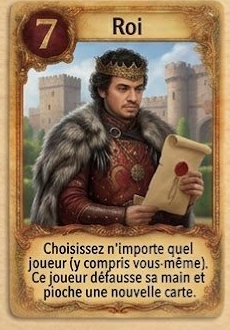
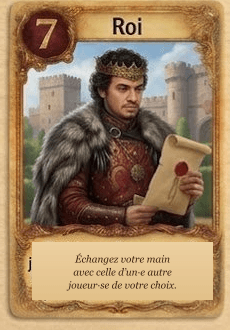
fix: king card text + dramatize reveals + turn vibration (#1)
- public/cards/king.png : la cellule du Roi du composite avait le texte du Prince ; on recouvre la bande parchemin avec le bon (« Échangez votre main… »). Script idempotent dans scripts/fix-king-card-text.mjs, backup en king.before-fix.png.
- RevealBubble : verdicts (Touché/Raté, éliminé·e, Princesse tombe) décalés à 1.0–1.6 s pour qu'on voie d'abord l'action et les cartes. Auto-dismiss allongé en conséquence (3.0–3.3 s).
- GameTable : suppression des toasts 'elim' et 'win' qui anticipaient la conclusion en parallèle des reveals. 'protect' et 'bonus' conservés.
- RoundEndModal : staggered reveal — mains affichées une par une, puis badge ✓ manche, puis raison, puis bouton.
- Vibration : navigator.vibrate(\[55, 55, 55\]) au début de chaque tour humain, déduplication (round, turn). Déplacée de solo/page.tsx vers GameTable pour couvrir aussi le multi.

Changed region(s): [[0.1217, 0.7273, 0.9435, 0.9091]]

diff --git a/components/game/modals/RoundEndModal.tsx b/components/game/modals/RoundEndModal.tsx
@@ -1,5 +1,6 @@
 'use client';
 
+import { motion } from 'motion/react';
 import type { GameState, RoundEndSummary } from '@/lib/game';
 import { Modal } from '@/components/ui/Modal';
 import { Button } from '@/components/ui/Button';
@@ -12,6 +13,21 @@ export interface RoundEndModalProps {
   onNextRound: () => void;
 }
 
+/**
+ * Reveal scénarisé : on ne saute pas à la conclusion. Ordre d'apparition :
+ *   1. Label "Mains révélées"           (instantané)
+ *   2. Mains, une par une               (HAND_STAGGER × index)
+ *   3. Badge "✓ manche" sur le/s gagnant·e/s
+ *   4. Phrase de raison ("X seul·e survivant·e !" ou "Pioche vide…")
+ *   5. Bonus Espionne (s'il y en a un)
+ *   6. Bouton "Manche suivante"
+ */
+const HAND_STAGGER = 0.32;
+const HANDS_LEAD = 0.15;
+const POST_HANDS_GAP = 0.45;
+const BONUS_GAP = 0.35;
+const BUTTON_GAP = 0.5;
+
 export function RoundEndModal({ open, state, summary, onNextRound }: RoundEndModalProps) {
   const winnerNames = summary.winners
     .map((id) => state.players.find((p) => p.id === id)?.name)
@@ -21,31 +37,37 @@ export function RoundEndModal({ open, state, summary, onNextRound }: RoundEndMod
     ? state.players.find((p) => p.id === summary.spyBonusTo)?.name
     : null;
 
+  const handCount = state.players.length;
+  const lastHandAt = HANDS_LEAD + (handCount - 1) * HAND_STAGGER;
+  const winnerBadgeAt = lastHandAt + POST_HANDS_GAP;
+  const reasonAt = winnerBadgeAt + 0.35;
+  const bonusAt = reasonAt + BONUS_GAP;
+  const buttonAt = (bonusName ? bonusAt : reasonAt) + BUTTON_GAP;
+
   return (
     <Modal open={open} title={`Fin de la manche ${state.roundNumber}`} dismissable={false}>
       <div className="flex flex-col gap-4">
-        <div>
-          <p className="font-display text-lg">
-            {summary.reason === 'lastSurvivor'
-              ? `${winnerNames} seul·e survivant·e !`
-              : `Pioche vide. Plus haute carte : ${winnerNames}.`}
-          </p>
-          {bonusName && (
-            <p className="text-sm italic mt-1" style={{ color: 'var(--color-cartouche-deep)' }}>
-              +1 jeton bonus Espionne pour {bonusName}.
-            </p>
-          )}
-        </div>
-
         <div>
           <h3 className="font-display text-sm uppercase tracking-wide mb-2 opacity-80">
             Mains révélées
           </h3>
           <div className="flex flex-wrap gap-2 justify-center">
-            {state.players.map((p) => {
+            {state.players.map((p, i) => {
               const card = summary.finalHands[p.id];
+              const isWinner = card != null && summary.winners.includes(p.id);
               return (
-                <div key={p.id} className="flex flex-col items-center gap-1">
+                <motion.div
+                  key={p.id}
+                  initial={{ opacity: 0, y: 14, rotateY: 90 }}
+                  animate={{ opacity: 1, y: 0, rotateY: 0 }}
+                  transition={{
+                    delay: HANDS_LEAD + i * HAND_STAGGER,
+                    type: 'spring',
+                    stiffness: 220,
+                    damping: 20,
+                  }}
+                  className="flex flex-col items-center gap-1"
+                >
                   <span className="text-xs font-display opacity-80">{p.name}</span>
                   {card ? (
                     <Card kind={card} size="sm" />
@@ -57,21 +79,63 @@ export function RoundEndModal({ open, state, summary, onNextRound }: RoundEndMod
                       éliminé·e
                     </div>
                   )}
-                  <span className="text-[10px] font-mono">{p.tokens} jeton{p.tokens > 1 ? 's' : ''}</span>
-                  {card && summary.winners.includes(p.id) && (
-                    <span className="text-[9px] font-display" style={{ color: 'var(--color-success)' }}>
+                  <span className="text-[10px] font-mono">
+                    {p.tokens} jeton{p.tokens > 1 ? 's' : ''}
+                  </span>
+                  {isWinner && (
+                    <motion.span
+                      initial={{ opacity: 0, scale: 0.4 }}
+                      animate={{ opacity: 1, scale: 1 }}
+                      transition={{
+                        delay: winnerBadgeAt,
+                        type: 'spring',
+                        stiffness: 480,
+                        damping: 14,
+                      }}
+                      className="text-[9px] font-display"
+                      style={{ color: 'var(--color-success)' }}
+                    >
                       ✓ manche
-                    </span>
+                    </motion.span>
                   )}
-                </div>
+                </motion.div>
               );
             })}
           </div>
         </div>
 
-        <Button onClick={onNextRound} className="w-full" variant="primary">
-          Manche suivante
-        </Button>
+        <motion.div
+          initial={{ opacity: 0, y: 10 }}
+          animate={{ opacity: 1, y: 0 }}
+          transition={{ delay: reasonAt, duration: 0.35 }}
+        >
+          <p className="font-display text-lg">
+            {summary.reason === 'lastSurvivor'
+              ? `${winnerNames} seul·e survivant·e !`
+              : `Pioche vide. Plus haute carte : ${winnerNames}.`}
+          </p>
+          {bonusName && (
+            <motion.p
+              initial={{ opacity: 0 }}
+              animate={{ opacity: 1 }}
+              transition={{ delay: bonusAt, duration: 0.3 }}
+              className="text-sm italic mt-1"
+              style={{ color: 'var(--color-cartouche-deep)' }}
+            >
+              +1 jeton bonus Espionne pour {bonusName}.
+            </motion.p>
+          )}
+        </motion.div>
+
+        <motion.div
+          initial={{ opacity: 0, y: 8 }}
+          animate={{ opacity: 1, y: 0 }}
+          transition={{ delay: buttonAt, duration: 0.3 }}
+        >
+          <Button onClick={onNextRound} className="w-full" variant="primary">
+            Manche suivante
+          </Button>
+        </motion.div>
       </div>
     </Modal>
   );

diff --git a/components/game/RevealBubble.tsx b/components/game/RevealBubble.tsx
@@ -166,7 +166,7 @@ function GuardBubble({
       <motion.div
         initial={{ scale: 0, rotate: -8, opacity: 0 }}
         animate={{ scale: 1, rotate: 0, opacity: 1 }}
-        transition={{ delay: 0.25, type: 'spring', stiffness: 220, damping: 18 }}
+        transition={{ delay: 0.35, type: 'spring', stiffness: 220, damping: 18 }}
       >
         <Card kind={guess} size="md" />
       </motion.div>
@@ -174,7 +174,7 @@ function GuardBubble({
       <motion.div
         initial={{ scale: 0, rotate: -20, opacity: 0 }}
         animate={{ scale: 1, rotate: correct ? -8 : 6, opacity: 1 }}
-        transition={{ delay: 0.65, type: 'spring', stiffness: 500, damping: 14 }}
+        transition={{ delay: 1.4, type: 'spring', stiffness: 500, damping: 14 }}
         className="px-6 py-2 rounded font-display font-bold uppercase tracking-wider"
         style={{
           background: correct ? '#a62424' : '#6b8e4e',
@@ -269,9 +269,9 @@ function BaronBubble({
         </div>
       </div>
       <motion.div
-        initial={{ opacity: 0, y: 10 }}
-        animate={{ opacity: 1, y: 0 }}
-        transition={{ delay: 0.5 }}
+        initial={{ opacity: 0, y: 10, scale: 0.7 }}
+        animate={{ opacity: 1, y: 0, scale: 1 }}
+        transition={{ delay: 1.5, type: 'spring', stiffness: 460, damping: 16 }}
         className="px-5 py-2 rounded font-display font-bold uppercase tracking-wider"
         style={{
           background: loserName ? '#a62424' : '#5c3a28',
@@ -308,7 +308,7 @@ function PrinceBubble({
       <motion.div
         initial={{ x: 0 }}
         animate={{ x: [0, -10, 10, -6, 6, 0] }}
-        transition={{ delay: 0.35, duration: 0.5 }}
+        transition={{ delay: 0.4, duration: 0.5 }}
       >
         <Card kind={card} size="lg" />
       </motion.div>
@@ -316,7 +316,7 @@ function PrinceBubble({
         <motion.div
           initial={{ scale: 0, opacity: 0 }}
           animate={{ scale: 1, opacity: 1 }}
-          transition={{ delay: 0.9, type: 'spring', stiffness: 500, damping: 16 }}
+          transition={{ delay: 1.6, type: 'spring', stiffness: 500, damping: 16 }}
           className="px-5 py-2 rounded font-display font-bold uppercase tracking-wider"
           style={{
             background: '#a62424',
@@ -367,7 +367,7 @@ function PrincessBubble({ actor }: { actor: string }) {
       <motion.div
         initial={{ scale: 0 }}
         animate={{ scale: 1 }}
-        transition={{ delay: 0.3, type: 'spring', stiffness: 400, damping: 12 }}
+        transition={{ delay: 1.0, type: 'spring', stiffness: 400, damping: 12 }}
         className="px-6 py-2 rounded font-display font-bold uppercase tracking-wider"
         style={{
           background: '#a62424',

diff --git a/components/game/GameTable.tsx b/components/game/GameTable.tsx
@@ -110,8 +110,10 @@ export function GameTable({ state, humanId, onAction }: GameTableProps) {
       if (e.reveal && shouldShowReveal(e.reveal, humanId)) {
         newReveals.push(e.reveal);
       }
-      // Toasts for non-reveal events (elim, win, bonus)
-      if (!e.reveal && (e.kind === 'elim' || e.kind === 'win' || e.kind === 'bonus' || e.kind === 'protect')) {
+      // Pas de toast pour 'elim' et 'win' : ils anticiperaient la conclusion
+      // (déjà dramatisée via reveal bubbles + RoundEndModal). On garde 'protect'
+      // (Servante : pas de reveal dédié) et 'bonus' (Espionne : info utile au moment).
+      if (!e.reveal && (e.kind === 'protect' || e.kind === 'bonus')) {
         toast(e.text, { duration: 3000 });
       }
     }
@@ -122,16 +124,37 @@ export function GameTable({ state, humanId, onAction }: GameTableProps) {
     }
   }, [state.log, humanId]);
 
-  // Auto-dismiss reveal après une durée (Garde = 2s, autres selon type)
+  // Auto-dismiss reveal après une durée. Allongé pour laisser le temps de
+  // voir l'animation complète (cartes → verdict décalé d'1.0–1.6s dans
+  // RevealBubble.tsx).
   useEffect(() => {
     if (revealQueue.length === 0) return;
     const head = revealQueue[0]!;
-    const duration = head.type === 'guardGuess' ? 2000 : head.type === 'kingSwap' ? 1800 : 2400;
+    const duration =
+      head.type === 'guardGuess'
+        ? 3000
+        : head.type === 'kingSwap'
+          ? 2200
+          : 3300;
     const t = setTimeout(() => {
       setRevealQueue((q) => q.slice(1));
     }, duration);
     return () => clearTimeout(t);
   }, [revealQueue]);
+
+  // Vibration tactile au début de chaque tour humain (mobile).
+  // Déduplication par (round, turn) pour éviter de re-vibrer sur
+  // chaque mise à jour intermédiaire (Chancelière, etc.).
+  const lastVibratedTurnRef = useRef<string | null>(null);
+  useEffect(() => {
+    if (!isHumanTurn) return;
+    if (typeof navigator === 'undefined' || typeof navigator.vibrate !== 'function') return;
+    const turnId = `${state.roundNumber}-${state.turnNumber}-${humanId}`;
+    if (lastVibratedTurnRef.current === turnId) return;
+    lastVibratedTurnRef.current = turnId;
+    // Pattern visible : impulsion - pause - impulsion. Reste discret mais perceptible.
+    navigator.vibrate([55, 55, 55]);
+  }, [isHumanTurn, state.roundNumber, state.turnNumber, humanId]);
 
   const humanPlayable = useMemo(() => {
     if (!isHumanTurn || !hasDrawn) return [];

diff --git a/app/play/solo/page.tsx b/app/play/solo/page.tsx
@@ -90,8 +90,8 @@ function SetupForm({ onStart }: { onStart: (s: Setup) => void }) {
             ))}
           </div>
           <p className="text-[11px] opacity-60 italic">
-            Toi + {count - 1} bot{count - 1 > 1 ? 's' : ''}. Seuil de victoire :{' '}
-            {count === 2 ? 7 : count === 3 ? 5 : 4} jeton{count > 2 ? 's' : ''}.
+            Toi + {count - 1} bot{count - 1 > 1 ? 's' : ''}. Premier à{' '}
+            <strong>3 manches gagnées</strong> remporte la partie.
           </p>
         </div>
 
@@ -143,7 +143,14 @@ function SoloGame({ setup, onExit }: { setup: Setup; onExit: () => void }) {
   }, []);
 
   const startNewRound = useCallback(() => {
-    setState((prev) => applyAction(prev, { kind: 'startNextRound', playerId: humanId }));
+    setState((prev) => {
+      try {
+        return applyAction(prev, { kind: 'startNextRound', playerId: humanId });
+      } catch (err) {
+        toast.error(err instanceof Error ? err.message : 'Impossible de démarrer la manche');
+        return prev;
+      }
+    });
   }, []);
 
   const replay = useCallback(() => {
@@ -174,18 +181,8 @@ function SoloGame({ setup, onExit }: { setup: Setup; onExit: () => void }) {
     return () => clearTimeout(t);
   }, [state]);
 
-  // Vibration tactile au début de mon tour (mobile only)
-  useEffect(() => {
-    const current = state.players[state.currentPlayerIdx];
-    if (
-      current?.id === humanId &&
-      state.turnPhase === 'play' &&
-      typeof navigator !== 'undefined' &&
-      typeof navigator.vibrate === 'function'
-    ) {
-      navigator.vibrate(15);
-    }
-  }, [state.currentPlayerIdx, state.turnNumber, state.turnPhase, state.players]);
+  // Vibration tactile au début de mon tour : déplacée dans GameTable pour
+  // couvrir aussi le mode multijoueur.
 
   const showRoundEnd =
     state.lastRoundSummary !== null &&
